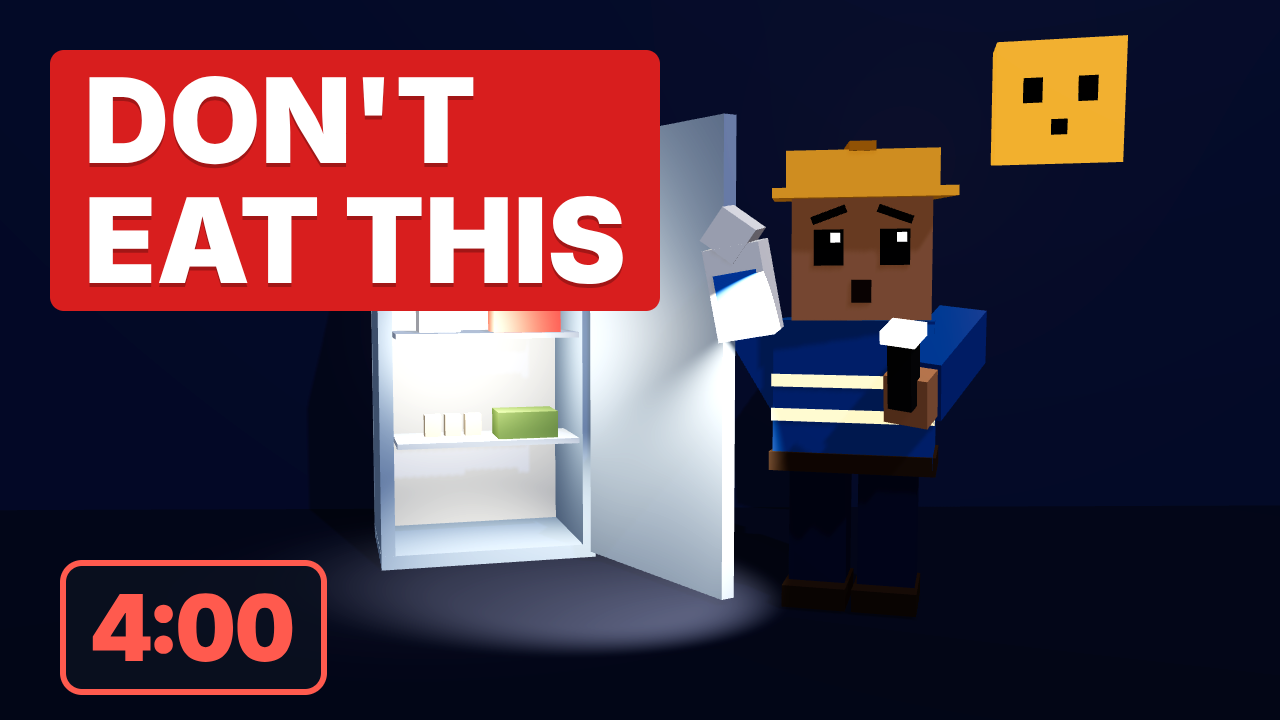
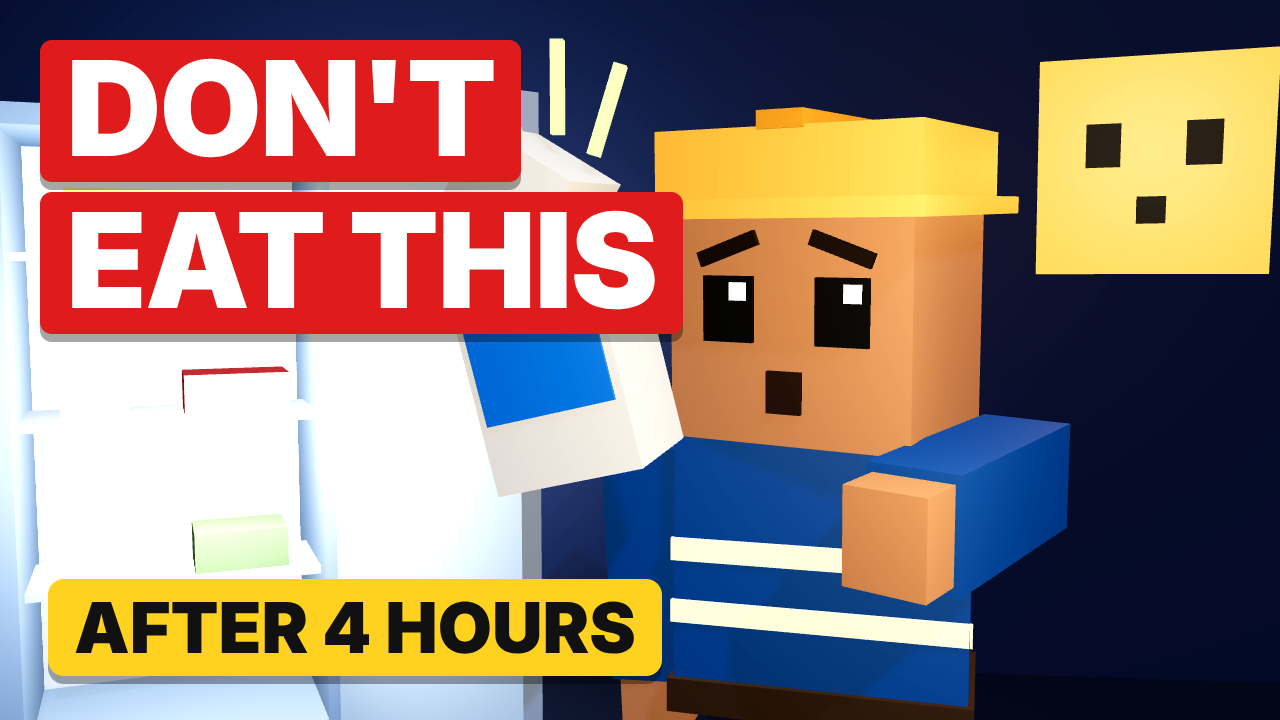
Long 001: stronger thumbnails - A close-up (DON'T EAT THIS / AFTER 4 HOURS), C (7 DAYS NO POWER + systems board)
Claude-Session: https://claude.ai/code/session_0194apvG89MkVJaQRZ5QBXLN

diff --git a/shorts-studio/src/long/Thumb001.tsx b/shorts-studio/src/long/Thumb001.tsx
@@ -1,32 +1,94 @@
-// Thumbnail A for Long 001: "DON'T EAT THIS" — open fridge lit by a phone flashlight, hero with a milk carton.
+// Thumbnails for Long 001. Variant via input prop `v`: 'A' (DON'T EAT THIS, close-up), 'B' (DAY 2: NO WATER), 'C' (7 DAYS board).
 import React from 'react';
 import {AbsoluteFill} from 'remotion';
 import {Box, Lineman, Volt} from '../three/kit';
-import {FONT, Fridge, Room, UI} from './props';
+import {Faucet, FONT, Fridge, Room, UI, WaterTower} from './props';
 
-export const Thumb001: React.FC = () => (
+const Carton: React.FC<{p: [number, number, number]; r?: [number, number, number]; s?: number}> = ({p, r = [0, 0, 0], s = 1}) => (
+  <group position={p} rotation={r} scale={s}>
+    <Box s={[0.34, 0.55, 0.34]} c="#f7f7f2" />
+    <Box p={[0, 0.34, 0]} r={[0, 0, Math.PI / 4]} s={[0.24, 0.24, 0.34]} c="#f7f7f2" />
+    <Box p={[0, 0.0, 0.175]} s={[0.3, 0.24, 0.01]} c="#2f80ed" />
+  </group>
+);
+
+const Bar: React.FC<{lines: string[]; top?: number; left?: number; size?: number; bg?: string; color?: string}> = ({lines, top = 40, left = 40, size = 128, bg = '#e01b1b', color = '#fff'}) => (
+  <div style={{position: 'absolute', top, left, display: 'flex', flexDirection: 'column', alignItems: 'flex-start', gap: 10}}>
+    {lines.map((l) => (
+      <div key={l} style={{background: bg, padding: '2px 26px 8px', borderRadius: 12, fontFamily: FONT, fontWeight: 900, fontSize: size, lineHeight: 1, color, letterSpacing: -2, boxShadow: '0 8px 0 rgba(0,0,0,0.35)'}}>
+        {l}
+      </div>
+    ))}
+  </div>
+);
+
+const A: React.FC = () => (
   <AbsoluteFill style={{background: '#0b1020'}}>
-    <Room cam={[0.2, 2.1, 7.6]} tgt={[0.35, 1.55, -0.4]} lit={0}>
-      <Fridge p={[-0.9, 0, -1.4]} open={1} rotY={0.25} />
-      {/* phone flashlight beam on the shelves */}
-      <spotLight position={[1.2, 2.3, 1.2]} target-position={[-1.0, 1.6, -1.4]} angle={0.5} penumbra={0.5} intensity={60} distance={8} color="#fff6e0" />
-      <pointLight position={[-0.9, 1.7, -0.6]} color="#fff6e0" intensity={4} distance={3} />
-      <Lineman frame={12} pos={[1.75, 0, 0.2]} rotY={-0.3} pose={{armRx: -1.2, armR: 0.25, armL: 0.5, lookX: 0.05, lookY: 0.15, mouth: 'o', brows: 'worried', hold: 'flashlight'}} />
-      {/* milk carton in the left hand */}
-      <group position={[0.95, 2.05, 0.75]} rotation={[0.1, -0.3, 0.2]}>
-        <Box s={[0.34, 0.55, 0.34]} c="#f4f4f0" />
-        <Box p={[0, 0.34, 0]} r={[0, 0, Math.PI / 4]} s={[0.24, 0.24, 0.34]} c="#f4f4f0" />
-        <Box p={[0, 0.02, 0.175]} s={[0.26, 0.2, 0.01]} c="#3a7bd5" />
-      </group>
-      <Volt frame={12} pos={[3.2, 3.2, -0.3]} glow={0} mood="shock" />
+    <Room cam={[0.75, 2.45, 4.0]} tgt={[0.35, 2.1, -0.3]} lit={0}>
+      <color attach="background" args={['#101a3a']} />
+      <Fridge p={[-2.3, 0, -1.8]} open={1} rotY={0.5} />
+      {/* fridge glow behind the hero */}
+      <pointLight position={[-1.6, 1.9, -0.9]} color="#d8ecff" intensity={16} distance={5} />
+      <pointLight position={[1.6, 2.6, 2.2]} color="#ffe9c0" intensity={9} distance={6} />
+      <Lineman frame={12} pos={[1.05, 0, -0.1]} rotY={-0.2} pose={{armRx: -1.5, armR: 0.35, lookX: 0.05, lookY: -0.25, mouth: 'o', brows: 'worried'}} />
+      <Carton p={[0.2, 2.2, 0.55]} r={[0.05, -0.2, 0.25]} s={1.35} />
+      {/* stink lines */}
+      {[0, 1, 2].map((i) => (
+        <Box key={i} p={[0.03 + i * 0.15, 2.92 + (i % 2) * 0.07, 0.55]} r={[0, 0, 0.3 - i * 0.3]} s={[0.04, 0.28, 0.04]} c="#7bd34a" e={1.5} />
+      ))}
+      <Volt frame={12} pos={[2.35, 2.75, -0.8]} glow={0} mood="shock" />
     </Room>
-    <div style={{position: 'absolute', top: 50, left: 50, background: '#d81e1e', padding: '10px 34px', borderRadius: 14, fontFamily: FONT, fontWeight: 900, fontSize: 118, lineHeight: 1.02, color: '#fff', textShadow: '0 4px 0 rgba(0,0,0,0.25)'}}>
-      DON'T
-      <br />
-      EAT THIS
-    </div>
-    <div style={{position: 'absolute', left: 60, top: 560, background: UI.panel, border: `6px solid ${UI.red}`, borderRadius: 22, padding: '6px 26px', fontFamily: FONT, fontWeight: 900, fontSize: 92, color: UI.red, fontVariantNumeric: 'tabular-nums'}}>
-      4:00
+    <Bar lines={["DON'T", 'EAT THIS']} size={132} />
+    <div style={{position: 'absolute', left: 48, bottom: 44, background: '#ffd21f', color: '#111', borderRadius: 16, padding: '6px 26px', fontFamily: FONT, fontWeight: 900, fontSize: 70, boxShadow: '0 8px 0 rgba(0,0,0,0.35)'}}>
+      AFTER 4 HOURS
     </div>
   </AbsoluteFill>
 );
+
+const B: React.FC = () => (
+  <AbsoluteFill style={{background: '#0b1020'}}>
+    <Room cam={[1.2, 2.0, 3.0]} tgt={[0.1, 1.55, 0]} lit={0}>
+      <color attach="background" args={['#ff8a3d']} />
+      <Box p={[0, 0.55, 0]} s={[4.2, 1.1, 1.0]} c="#4a3a30" />
+      <Box p={[0, 1.13, 0]} s={[4.3, 0.06, 1.1]} c="#d9dde8" />
+      <Faucet p={[0, 1.16, 0]} flow={0} />
+      <Box p={[0, 1.88, 0.3]} s={[0.12, 0.16, 0.12]} c="#4aa3ff" e={1.5} />
+      <pointLight position={[0.5, 2.5, 2]} color="#fff2dc" intensity={8} distance={6} />
+      <WaterTower p={[-3.4, -2.4, -6]} level={0.06} scale={0.9} />
+      <Lineman frame={12} pos={[1.7, 0, -0.6]} rotY={-0.6} pose={{lookY: -0.5, lookX: 0.2, mouth: 'frown', brows: 'worried', armL: 0.4, armR: 0.4}} />
+    </Room>
+    <Bar lines={['DAY 2:', 'NO WATER']} size={128} />
+  </AbsoluteFill>
+);
+
+const SYS = ['POWER', 'CARD', 'FUEL', 'PHONE', 'WATER', 'FOOD', 'HEAT', 'SEWER'];
+const C: React.FC = () => (
+  <AbsoluteFill style={{background: '#0d1530'}}>
+    <AbsoluteFill>
+      <Room cam={[-1.6, 2.2, 5.2]} tgt={[-1.6, 1.9, 0]} lit={0}>
+        <color attach="background" args={['#0d1530']} />
+        <pointLight position={[0, 3, 2]} color="#ffe2b0" intensity={10} distance={6} />
+        <Lineman frame={12} pos={[0, 0, 0]} rotY={-0.25} pose={{mouth: 'o', brows: 'worried', hold: 'flashlight', armRx: -1.2}} />
+        <Volt frame={12} pos={[1.3, 3.1, -0.6]} glow={0} mood="shock" />
+      </Room>
+    </AbsoluteFill>
+    <div style={{position: 'absolute', top: 40, left: 48, fontFamily: FONT, fontWeight: 900, fontSize: 128, lineHeight: 0.95, color: '#fff', letterSpacing: -3}}>
+      7 DAYS
+      <br />
+      <span style={{color: '#ffd21f'}}>NO POWER</span>
+    </div>
+    <div style={{position: 'absolute', left: 48, bottom: 48, display: 'grid', gridTemplateColumns: 'repeat(4, 140px)', gap: 14}}>
+      {SYS.map((s, i) => {
+        const red = i < 7;
+        return (
+          <div key={s} style={{background: 'rgba(11,16,32,0.9)', border: `5px solid ${red ? UI.red : UI.green}`, borderRadius: 18, padding: '10px 0', textAlign: 'center', fontFamily: FONT, fontWeight: 900}}>
+            <div style={{width: 40, height: 40, borderRadius: 20, margin: '0 auto', background: red ? UI.red : UI.green, boxShadow: `0 0 24px ${red ? UI.red : UI.green}`}} />
+            <div style={{fontSize: 26, color: '#fff', marginTop: 6}}>{s}</div>
+          </div>
+        );
+      })}
+    </div>
+  </AbsoluteFill>
+);
+
+export const Thumb001: React.FC<{v?: 'A' | 'B' | 'C'}> = ({v = 'A'}) => (v === 'B' ? <B /> : v === 'C' ? <C /> : <A />);

diff --git a/shorts-studio/src/Root.tsx b/shorts-studio/src/Root.tsx
@@ -33,7 +33,7 @@ export const Root: React.FC = () => {
   return (
     <>
     <StylesRoot />
-    <Composition id="Thumb001" component={Thumb001} width={1280} height={720} fps={30} durationInFrames={1} />
+    <Composition id="Thumb001" component={Thumb001 as any} width={1280} height={720} fps={30} durationInFrames={1} defaultProps={{v: "A"}} />
     <Composition id="L1Gallery" component={Gallery as any} width={1920} height={1080} fps={30} durationInFrames={90} defaultProps={{i: 0}} />
     <Composition id="Long001" component={Long001} width={1920} height={1080} fps={L1_FPS} durationInFrames={L1_FRAMES} />
     <Composition id="LongDraft" component={LongDraft} width={1920} height={1080} fps={LONG_FPS} durationInFrames={LONG_FRAMES} />
